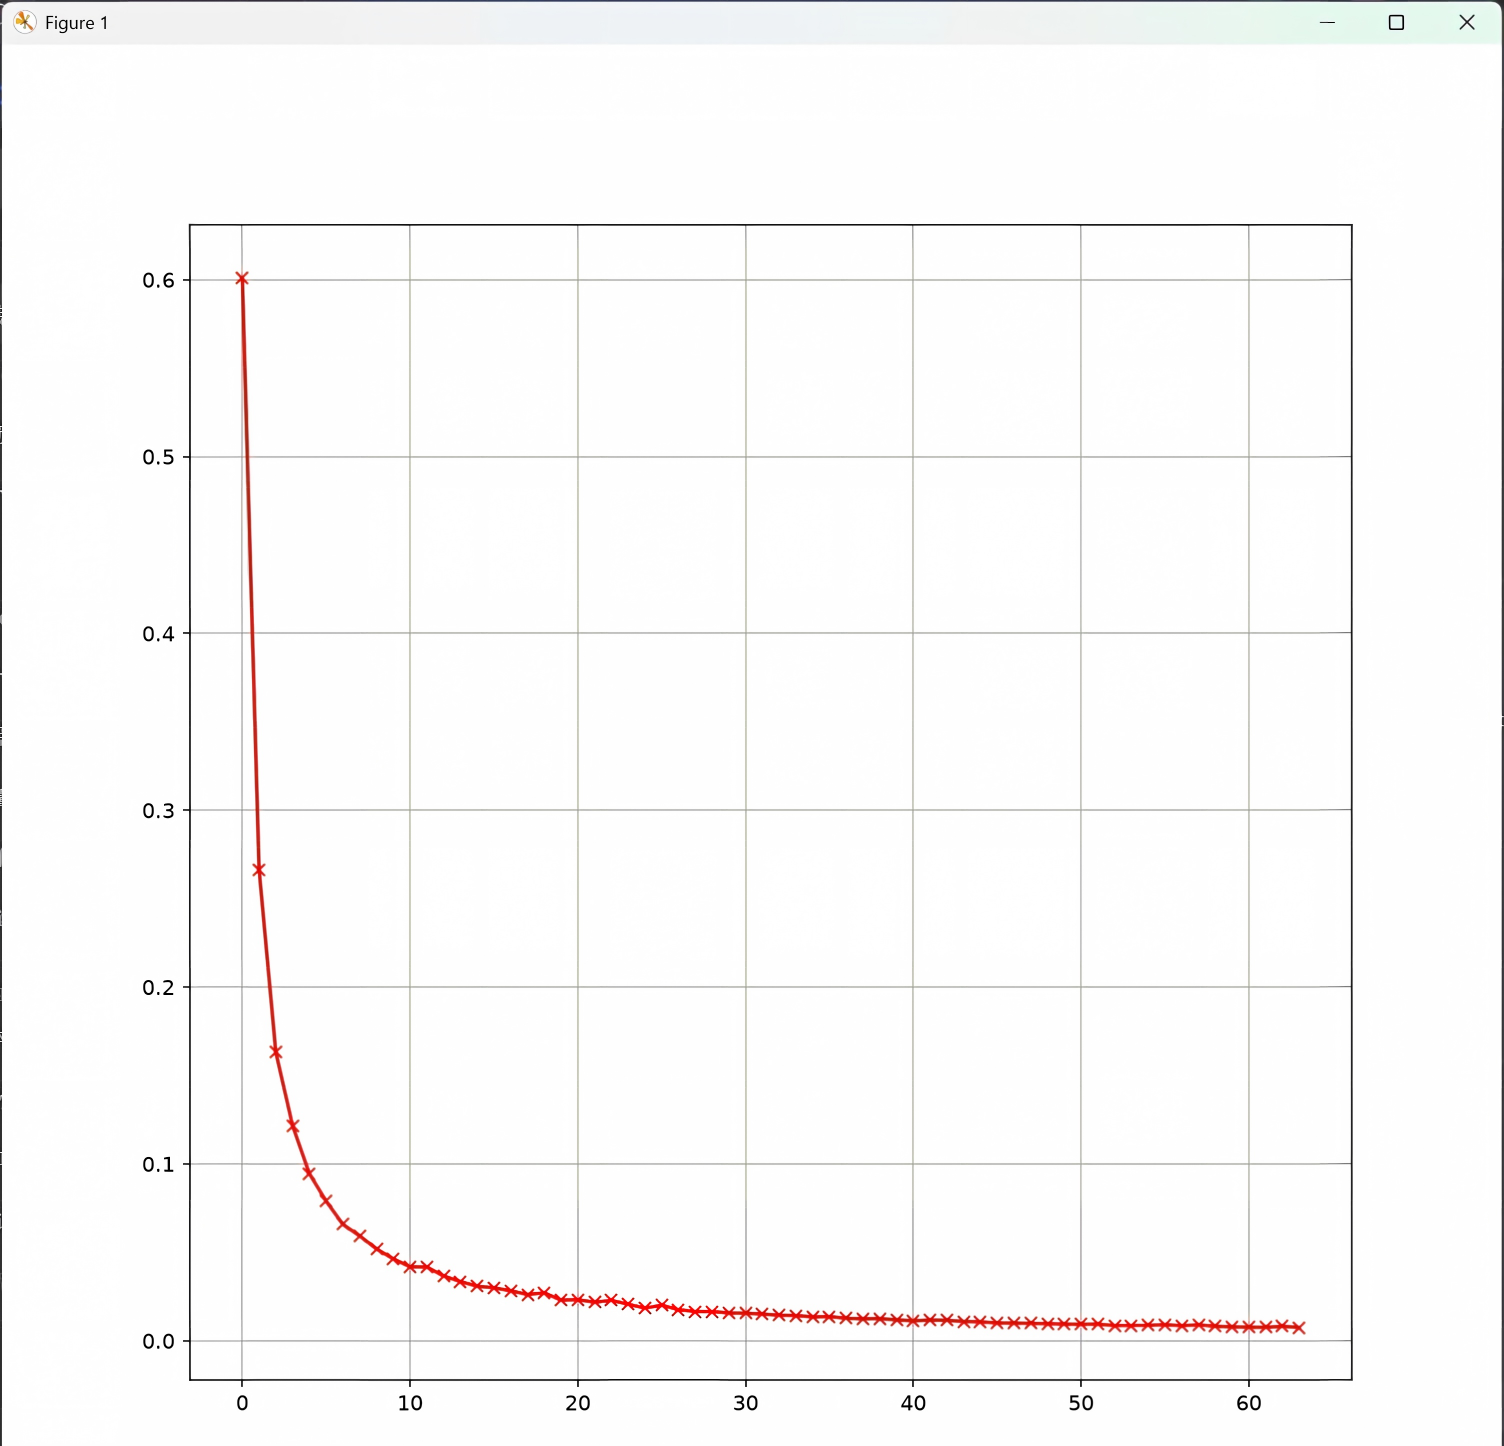
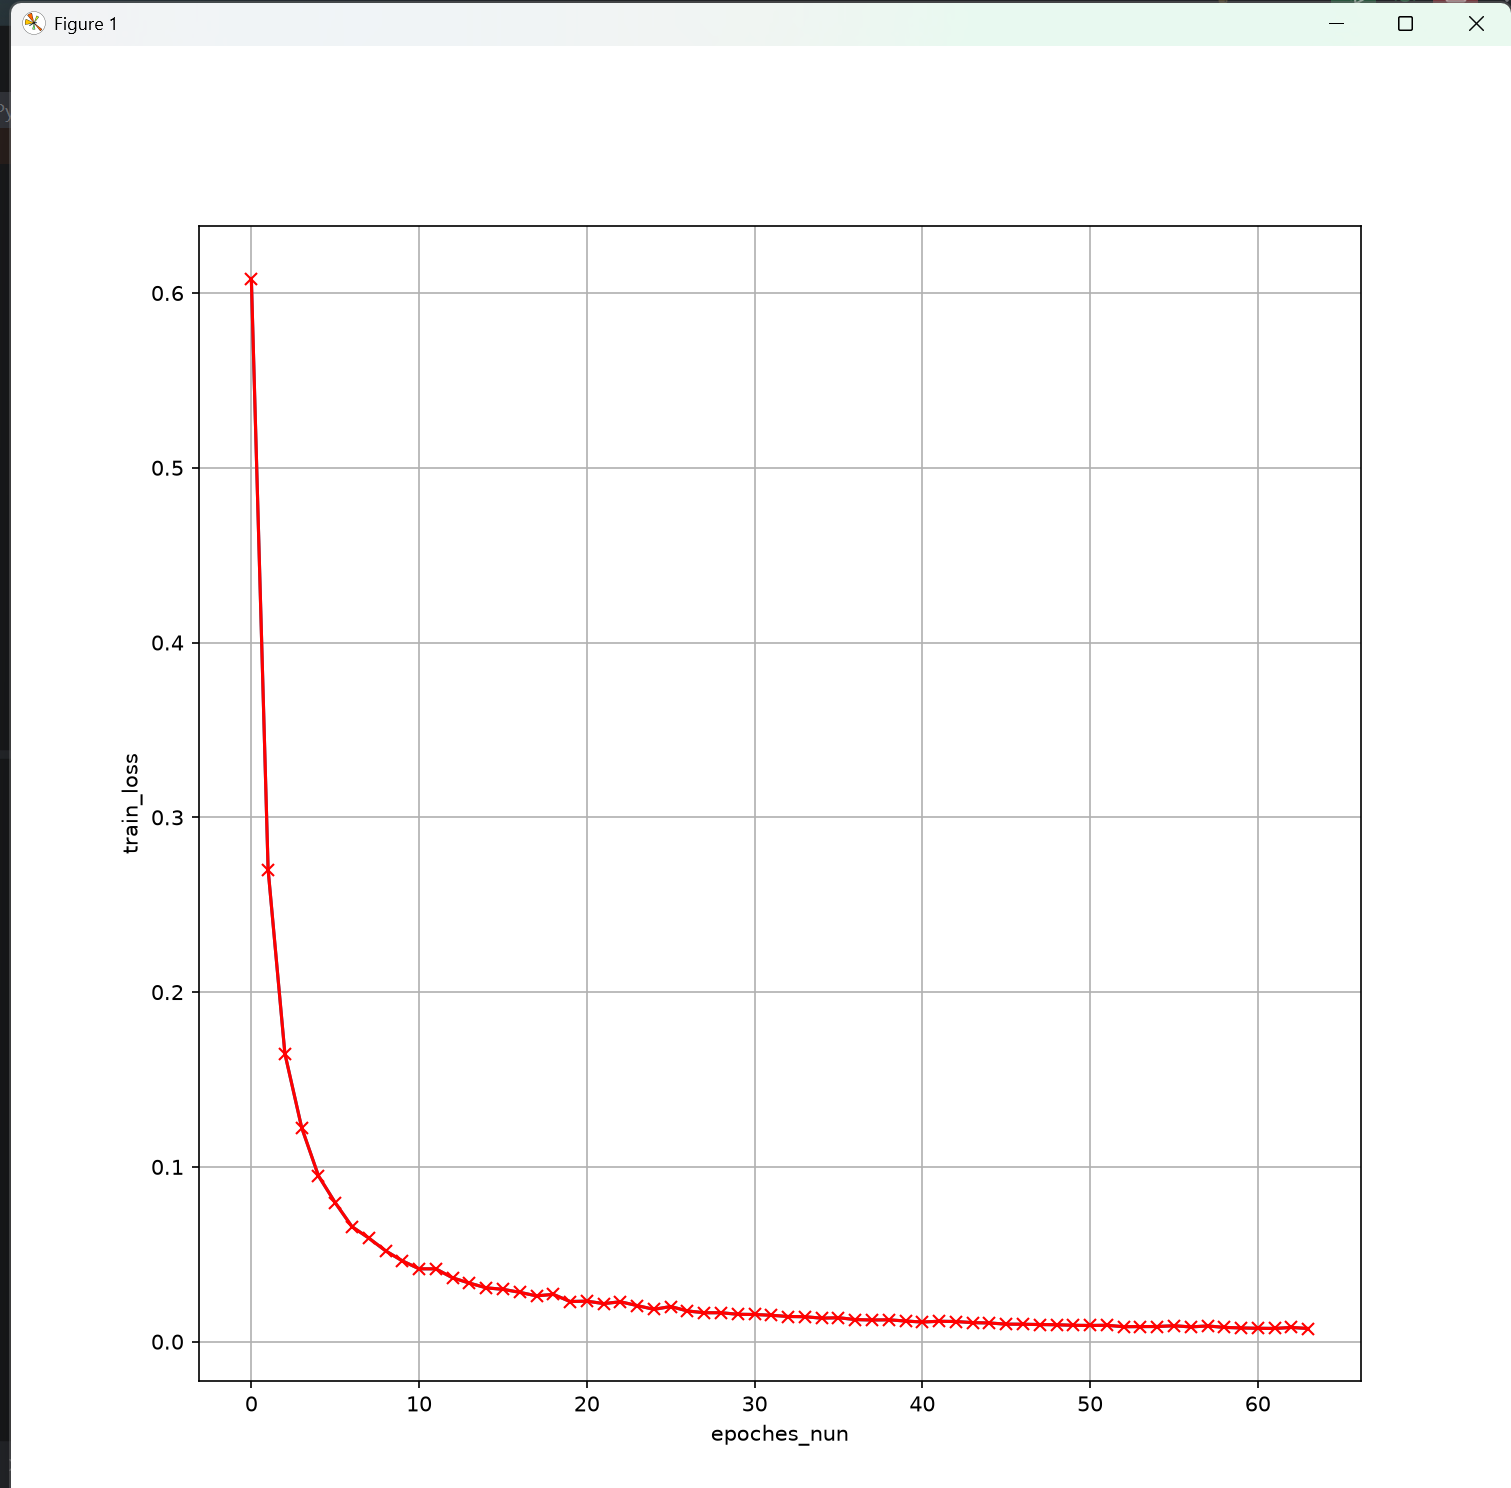
Add files via upload

diff --git a/titanic_submission/src/main.py b/titanic_submission/src/main.py
@@ -216,7 +216,7 @@ def train(X,y,epoches,batch_size,Ir):
             print(f'Epoch{epoch + 1:2d},loss:{epoch_loss / batch_count:4f}')
 
      # 绘图（直接用前面的函数）
-    plt_ok(list(range(0,len(loss_history))), loss_history,xlabel='epoches_nun',ylabel='train_loss',figsize=(10,10),l)
+    plt_ok(list(range(0,len(loss_history))), loss_history,xlabel='epoches_nun',ylabel='train_loss')
     plt_two2(epoches,train_accuracy_history,test_accuracy_history)
 
 
